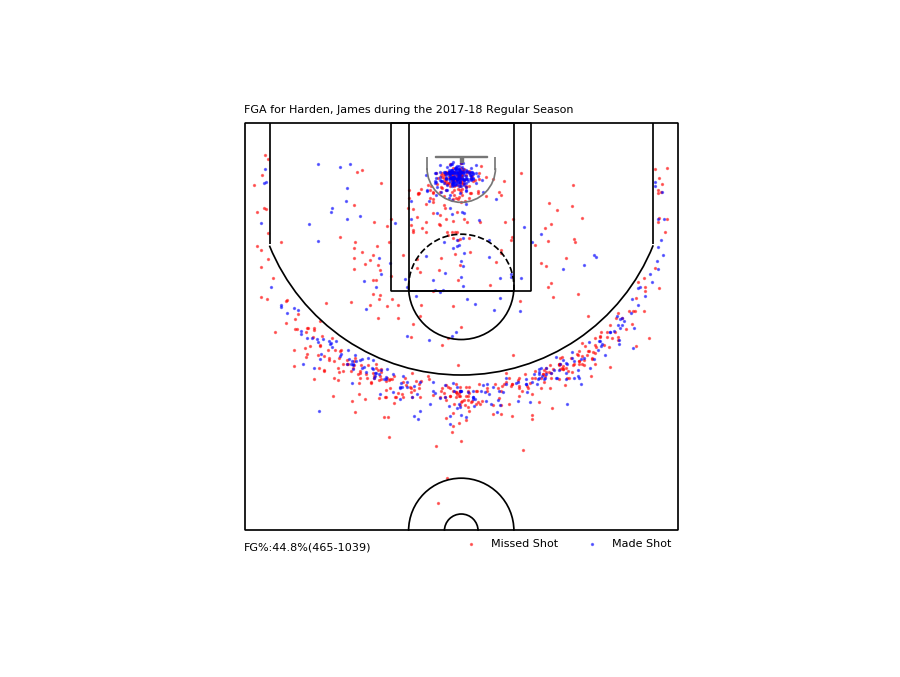
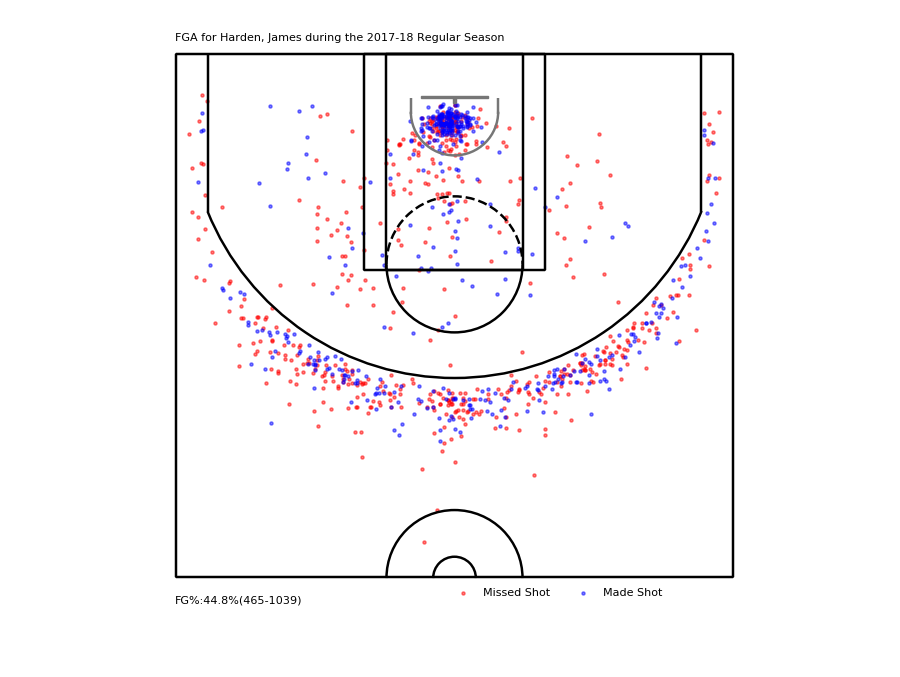
court shot log modified

diff --git a/plot/NBAshotlog/readme.md b/plot/NBAshotlog/readme.md
@@ -235,8 +235,8 @@ def draw_half_court(ax=None, unit=1):
 
     ## Three point line
     # Create the side 3pt lines, they are 14ft long before they begin to arc
-    corner_three_left = Rectangle((-264*unit+court_lw/2, -63*unit-court_lw/2), 0, 14*12*unit +court_lw, linewidth=court_lw, color=color)
-    corner_three_right = Rectangle((264*unit-court_lw/2, -63*unit-court_lw/2), 0, 14*12*unit +court_lw, linewidth=court_lw, color=color)
+    corner_three_left = Rectangle((-264*unit+court_lw/2, -63*unit-court_lw/2), 0, 14*12*unit -court_lw, linewidth=court_lw, color=color)
+    corner_three_right = Rectangle((264*unit-court_lw/2, -63*unit-court_lw/2), 0, 14*12*unit -court_lw, linewidth=court_lw, color=color)
     # 3pt arc - center of arc will be the hoop, arc is 23'9" away from hoop
     # I just played around with the theta values until they lined up with the 
     # threes 
@@ -278,16 +278,17 @@ plt.show()
 添加上投篮数据
 ```
 fig = plt.figure(figsize=(9,8))
-ax = fig.add_subplot(111,aspect='equal')
+#ax = fig.add_subplot(111,aspect='equal')
+ax = fig.add_axes([0.01, 0.01, 0.99, 0.99], frame_on=True, axisbg = 'white',aspect='equal')
 ax.set_xlim(-330,330)
 ax.set_ylim(top= -100,bottom = 500)
 
 draw_half_court(ax=ax,unit=10/12)
 
 df_missed = shot_df[shot_df.EVENT_TYPE=='Missed Shot'][['LOC_X','LOC_Y']]
-ax.scatter(df_missed.LOC_X, df_missed.LOC_Y,s=2,color='r',label = 'Missed Shot',alpha=0.5)
+ax.scatter(df_missed.LOC_X, df_missed.LOC_Y,s=5,color='r',label = 'Missed Shot',alpha=0.5)
 df_made = shot_df[shot_df.EVENT_TYPE=='Made Shot'][['LOC_X','LOC_Y']]
-ax.scatter(df_made.LOC_X, df_made.LOC_Y,s=2,color='b',label = 'Made Shot',alpha=0.5)
+ax.scatter(df_made.LOC_X, df_made.LOC_Y,s=5,color='b',label = 'Made Shot',alpha=0.5)
 
 legend = ax.legend(bbox_to_anchor=(0.49, 0.13), loc=2, borderaxespad=0.,prop={'size':8},ncol=2,frameon=False)
 plt.axis('off')
